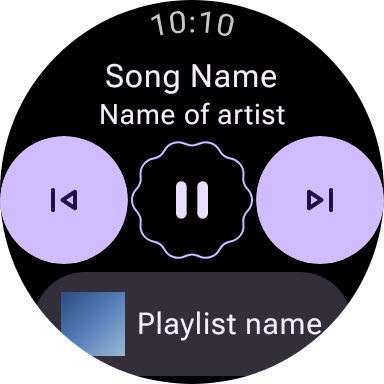
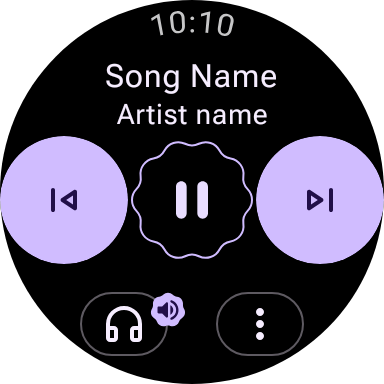
fix(media): draw the kit's two footer buttons, not a playlist chip (#72)

Changed region(s): [[0.0938, 0.6875, 0.9062, 1.0], [0.25, 0.25, 0.75, 0.3438]]

diff --git a/catalog/src/main/kotlin/ee/schimke/wearm3catalog/sections/MediaControls.kt b/catalog/src/main/kotlin/ee/schimke/wearm3catalog/sections/MediaControls.kt
@@ -3,16 +3,24 @@
 package ee.schimke.wearm3catalog.sections
 
 import androidx.compose.foundation.layout.Box
+import androidx.compose.foundation.layout.Row
 import androidx.compose.foundation.layout.fillMaxSize
 import androidx.compose.foundation.layout.height
 import androidx.compose.foundation.layout.size
 import androidx.compose.foundation.layout.width
+import androidx.compose.material.icons.Icons
+import androidx.compose.material.icons.filled.MoreVert
 import androidx.compose.runtime.Composable
 import androidx.compose.ui.Alignment
 import androidx.compose.ui.Modifier
 import androidx.compose.ui.graphics.Color
 import androidx.compose.ui.unit.Dp
 import androidx.compose.ui.unit.dp
+import com.google.android.horologist.audio.AudioOutput
+import com.google.android.horologist.audio.ui.material3.components.actions.SettingsButton
+import com.google.android.horologist.audio.ui.material3.components.actions.SettingsButtonDefaults
+import com.google.android.horologist.audio.ui.material3.components.actions.VolumeButtonWithBadge
+import com.google.android.horologist.audio.ui.material3.components.toAudioOutputUi
 import com.google.android.horologist.media.ui.material3.components.MediaControlButtons
 import com.google.android.horologist.media.ui.material3.components.MediaInfoDisplay
 import com.google.android.horologist.media.ui.material3.components.PlayPauseProgressButton
@@ -97,6 +105,29 @@ import ee.schimke.wearm3catalog.kitCopy
 // comparison reports them; saying so here is the rule for a difference Compose expresses elsewhere
 // (AGENTS.md).
 //
+// THE FOOTER IS TWO COMPACT BUTTONS, AND THIS PAGE ONCE DREW A PLAYLIST CHIP INSTEAD (issue #67).
+//
+// `PlayerScreen`'s third slot is typed `SettingsButtons` and ships EMPTY — Horologist supplies no
+// default for it, so what goes there is entirely the app's call. The first draft of this file put
+// `ShowPlaylistButton` in it, because that is the one component in `media-ui-material3`'s
+// `components/actions/` that pairs with the `MediaUiModel` seed already on hand. The kit draws
+// something else: `.Base / Media / Footer` (`71575:22221`) is two `Section`s of 68×60, each a 48dp
+// tap target around a 44×32 `Button-Compact` — the output-device button carrying a volume badge,
+// and an overflow. Horologist publishes exactly those, but in `horologist-audio-ui-material3`
+// (`VolumeButtonWithBadge` / `SettingsButton`), which was not on this module's classpath — so the
+// slot got the available component rather than the drawn one.
+//
+// The sizes are not a coincidence to be re-derived here: `SettingsButton`'s own `BUTTON_WIDTH` /
+// `BUTTON_HEIGHT` ARE 44×32, and it fills whatever box it is handed and centres itself in it. So
+// the frame below is the kit's two sections and nothing more, and the library draws the buttons.
+//
+// WHY NOTHING CAUGHT IT: the `Media-Player` reference is withdrawn (see above) because the cell
+// does not export. That is the right call about the reference — and it also switched off the one
+// check that would have compared this render against the cell, so a wrong footer read as intended
+// for as long as the caption described what was built. Two lessons, both already in AGENTS.md's
+// spirit: a withdrawn reference is a gap to state, not a licence; and a caption is written from the
+// KIT, not from the render.
+//
 // A PARITY FINDING THE RENDERS SURFACED, WRITTEN DOWN RATHER THAN PAPERED OVER.
 //
 // The kit draws its main control with a progress arc AROUND the button — `Progress=80%` and
@@ -156,7 +187,7 @@ import ee.schimke.wearm3catalog.kitCopy
       "so the reference is withdrawn until the export is faithful. See the note in this file.",
   caption =
     "The media player, whole: track and artist above, transport controls across the middle, the " +
-      "app's own action below.",
+      "output-device and overflow buttons below.",
 )
 @CatalogFullScreenModes
 @OverrideVariant(name = "ambient", strings = ["mode=ambient"])
@@ -224,13 +255,7 @@ fun MediaPlayerScreen() = ScreenSticker {
         )
       }
     },
-    buttons = {
-      ShowPlaylistButton(
-        artworkPaintable = HorologistSamples.Artwork,
-        name = kitCopy("playlist", KitCopy.MEDIA_PLAYLIST),
-        onClick = {},
-      )
-    },
+    buttons = { MediaFooterButtons(ambient = ambient == "ambient") },
     // The kit draws the artwork behind the whole screen, tinted; ambient draws none. Horologist's
     // `RadialBackground` is that wash, seeded from the artwork's colour rather than the bitmap.
     background = {
@@ -240,6 +265,92 @@ fun MediaPlayerScreen() = ScreenSticker {
     },
   )
 }
+
+/**
+ * The width of one `Section` in the kit's `.Base / Media / Footer` (`71575:22228`, `71575:22232`).
+ */
+private val FooterSectionWidth = 68.dp
+
+/** The height of the kit's `Bottom` frame (`71575:22339`) — the row the two sections sit in. */
+private val FooterSectionHeight = 60.dp
+
+/**
+ * The audio output the footer's first button reports.
+ *
+ * A `BluetoothHeadset` rather than a hand-picked icon, because `toAudioOutputUi()` is what maps an
+ * output to the glyph the kit draws — headphones for `TYPE_HEADPHONES`, and `isConnected`, which is
+ * what puts the volume badge on the button at all. Naming the icon here instead would be this repo
+ * transcribing a decision the library already makes (AGENTS.md).
+ */
+private val FooterAudioOutput =
+  AudioOutput.BluetoothHeadset(id = "catalog-headset", name = "Headphones")
+
+/**
+ * The kit's `.Base / Media / Footer` (`71575:22221`): the output-device button with its volume
+ * badge, and the overflow, in two 68×60 sections centred across the 192dp screen.
+ *
+ * NO SIZE IS INVENTED HERE. `SettingsButton` measures 44×32 — its own `BUTTON_WIDTH` /
+ * `BUTTON_HEIGHT`, which are the kit's `Button-Compact` — and it `fillMaxSize()`s into whatever box
+ * it is handed, centring itself. So the sections below are the only geometry this file states, and
+ * they are read off the kit's frames rather than chosen: 28 + 68 + 68 + 28 = 192.
+ *
+ * The volume state is deliberately **null**. The badge's glyph is the library's own function of it
+ * (mute / down / up), and a catalog render has no volume to report; null takes Horologist's own
+ * no-state default rather than seeding a number nobody chose. `isConnected` — which is what decides
+ * whether there is a badge at all — comes from [FooterAudioOutput].
+ *
+ * [ambient] outlines both buttons instead of filling them, which is the kit's `AOD=Yes` cell
+ * (`71575:22344`): same two buttons, drawn as outlines, badge still filled. Horologist publishes
+ * that pair as `ambientButtonColors()` + `ambientButtonBorder()`, so it is a colour choice on the
+ * same composable rather than a second one.
+ */
+@Composable
+private fun MediaFooterButtons(ambient: Boolean) {
+  val colors =
+    if (ambient) SettingsButtonDefaults.ambientButtonColors()
+    else SettingsButtonDefaults.buttonColors()
+  val border = if (ambient) SettingsButtonDefaults.ambientButtonBorder(enabled = true) else null
+  Row {
+    Box(Modifier.size(FooterSectionWidth, FooterSectionHeight)) {
+      VolumeButtonWithBadge(
+        onOutputClick = {},
+        audioOutputUi = FooterAudioOutput.toAudioOutputUi(),
+        volumeUiState = null,
+        buttonColors = colors,
+        border = border,
+      )
+    }
+    Box(Modifier.size(FooterSectionWidth, FooterSectionHeight)) {
+      SettingsButton(
+        onClick = {},
+        imageVector = Icons.Filled.MoreVert,
+        // Not `kitCopy`: that is for words the kit DRAWS, and this is never on screen.
+        contentDescription = "More",
+        buttonColors = colors,
+        border = border,
+      )
+    }
+  }
+}
+
+@CatalogComponent(
+  id = "Media/FooterButtons",
+  noReference =
+    "The kit's `.Base / Media / Footer` (`71575:22221`) — a PRIVATE set, so it carries no coverage " +
+      "row. The published cell it appears in is `Media-Player`, which `Media/PlayerScreen` " +
+      "reproduces whole; this is the same row on its own, so a change to it is diffed without " +
+      "having to read it out of a 192×192 screen.",
+  caption =
+    "The player's footer: the output-device button with its volume badge, and the overflow. Two " +
+      "44×32 compact buttons in the kit's two 68dp sections.",
+)
+@CatalogModes
+@OverrideVariant(name = "ambient", booleans = ["ambient=true"])
+@Composable
+fun MediaFooterButtonsRow() =
+  MediaRowSticker(height = FooterSectionHeight) {
+    MediaFooterButtons(ambient = previewOverrideBoolean("ambient", false))
+  }
 
 @CatalogComponent(
   id = "Media/ControlButtons",
@@ -398,9 +509,13 @@ fun MediaInfoDisplayHeader() =
 @CatalogComponent(
   id = "Media/ShowPlaylistButton",
   noReference =
-    "The app's own action in the kit's `.Base / Media / Footer` (`71575:22221`), a PRIVATE set. " +
-      "Compose's `FilledTonalButton` underneath, but the composable a media app calls is this one.",
-  caption = "The bottom action: jump to the playlist this track came from, with its artwork.",
+    "NOT IN THE KIT AT ALL, and this row used to claim it was. The kit's `.Base / Media / Footer` " +
+      "(`71575:22221`) draws two 44×32 compact buttons — `Media/FooterButtons` — not a labelled " +
+      "chip, so there is no cell this reproduces and none to withdraw. It stays on the sheet " +
+      "because Horologist publishes it and a media app that jumps to its source playlist calls " +
+      "exactly this; a reader should just not expect to find it on the kit's player. See the note " +
+      "in this file (issue #67).",
+  caption = "Jump to the playlist this track came from, with its artwork.",
 )
 @CatalogModes
 @Composable
